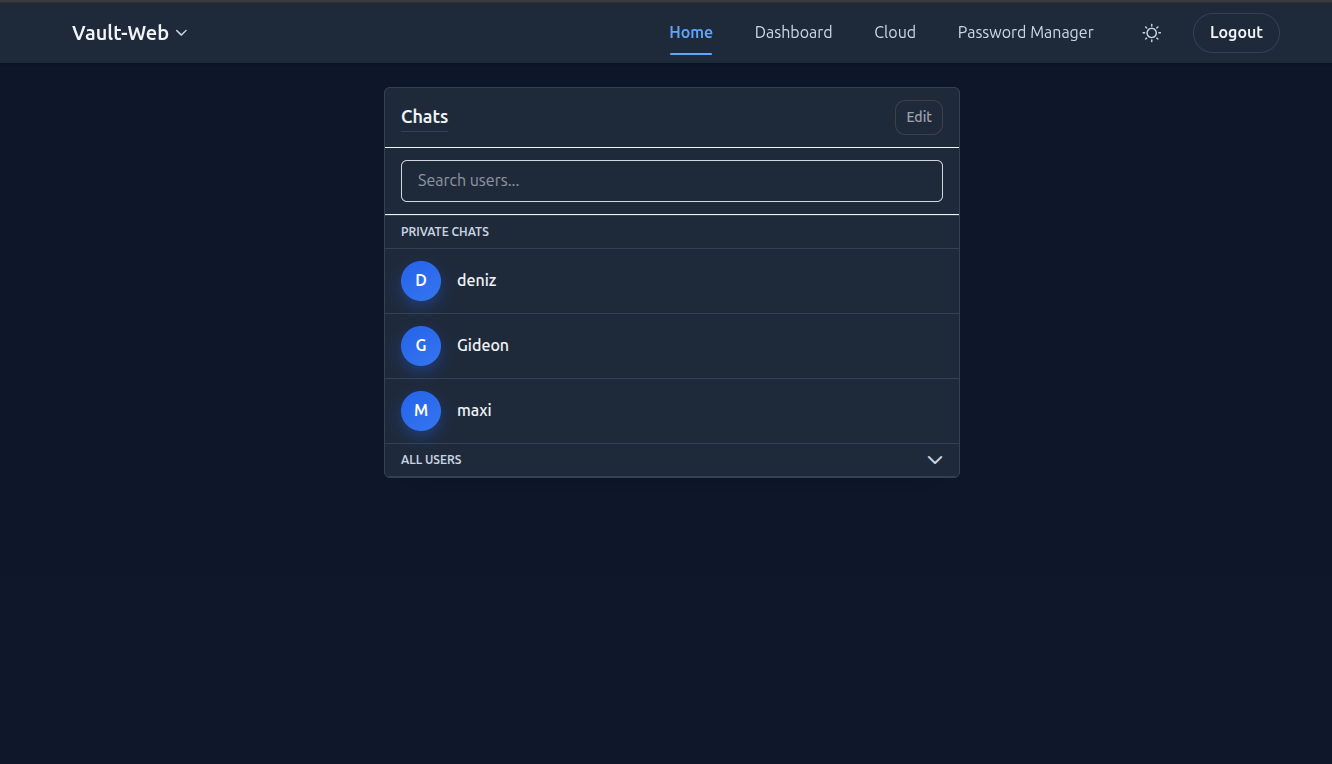
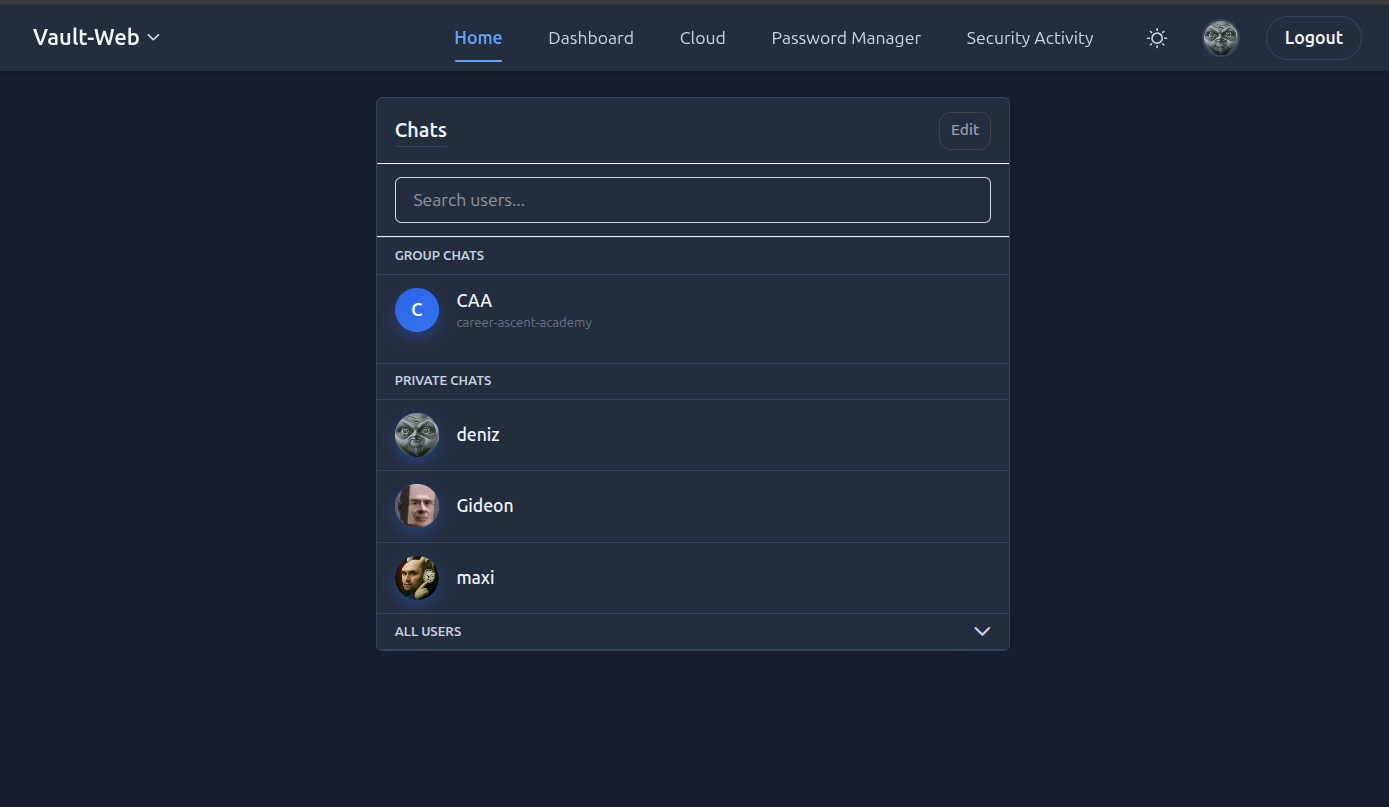
docs: refresh organization profile README

diff --git a/profile/README.md b/profile/README.md
@@ -1,84 +1,77 @@
 # Vault Web
 
-Vault Web is a modular, self-hosted portal for private services on a home server. It provides one web interface for account management, communication, files, and independently deployed applications.
+**A private entry point for chat, files, habits, passwords, and self-hosted services.**
 
-The project combines a central Angular frontend with a core Spring Boot application and service-specific backends connected through APIs. It is built for practical self-hosting, architecture experiments, and security-focused learning.
+Vault Web is a modular, self-hosted portal for private home-server services. It provides a single web interface for **authentication**, communication, file management, habit tracking, and service integration while keeping each service independently deployable.
 
-## Architecture
+The project is designed as a lighter, more focused alternative to large all-in-one platforms: small services, clear boundaries, **VPN-first deployment**, and practical operations for a personal server.
 
-Vault Web follows a service-oriented architecture with a centralized user interface:
+## What This Organization Builds
 
-- The Angular frontend is maintained in the core `vault-web` repository.
-- The core backend owns users, sessions, authentication, chat, and shared application concerns.
-- Domain services expose independent APIs and own their application logic.
-- Runtime integration happens through authenticated HTTP APIs and configurable frontend links.
-- The deployment stack is managed with Docker Compose.
-- Remote access is designed around Headscale/Tailscale, HTTPS termination, and private Split DNS.
+Vault Web combines a central portal with domain-specific services. The core application owns users, sessions, chat, and the main navigation experience. Services such as Cloud Page, Vault Habits, and Vaultwarden stay separate and integrate through APIs or **authenticated frontend links**. New services can be added without folding all logic into the portal itself.
 
-```text
-Browser or mobile client
-          |
-          v
-  Vault Web frontend
-          |
-          +--------> Vault Web core API
-          +--------> Cloud Page API
-          +--------> Additional service APIs
+```mermaid
+flowchart LR
+    client[VPN client] --> proxy[Caddy / HTTPS]
+    proxy --> frontend[Vault Web frontend]
+    frontend --> core[Core backend]
+    frontend --> cloud[Cloud Page backend]
+    frontend --> habits[Vault Habits]
+    proxy --> vaultwarden[Vaultwarden]
+    frontend --> extensions[Extensible by other services]
+
+    core --> coredb[(Core DB)]
+    cloud --> clouddb[(Cloud DB)]
+    coredb --> postgres[(PostgreSQL instance)]
+    clouddb --> postgres
+    cloud --> storage[(User storage)]
+    syncthing[Syncthing] -. syncs .-> storage
+    extensions -.-> apis[Service APIs / links]
+    headscale[Headscale / Tailscale] -. private access .-> client
 ```
-
-The long-term authentication direction is a dedicated gateway that centralizes token validation and authorization policies across services.
 
 ## Repositories
 
-| Repository | Purpose | Status |
-| --- | --- | --- |
-| [vault-web](https://github.com/Vault-Web/vault-web) | Central Angular frontend and Spring Boot core for users, sessions, chat, and service integration | Active |
-| [cloud-page](https://github.com/Vault-Web/cloud-page) | File and folder management API with per-user storage isolation | Active |
-| [vault-habits](https://github.com/Vault-Web/vault-habits) | Self-hosted habit tracking with Vault Web authentication handoff | Active |
-| [auth-api-gateway](https://github.com/Vault-Web/auth-api-gateway) | Central authentication and authorization gateway | In development |
-| [password-manager](https://github.com/Vault-Web/password-manager) | Dedicated password-management service with an encryption-focused design | Research and planning |
-| [deploy](https://github.com/Vault-Web/deploy) | Docker Compose deployment stack and service submodules | Active |
-| [server-docs](https://github.com/Vault-Web/server-docs) | Deployment, Headscale, Syncthing, backup, and operations documentation | Active |
+| Repository | Role |
+| --- | --- |
+| [`vault-web`](https://github.com/Vault-Web/vault-web) | Central portal frontend and core backend with **authentication**, sessions, chat, and navigation |
+| [`cloud-page`](https://github.com/Vault-Web/cloud-page) | File-management backend with **per-user storage isolation** |
+| [`vault-habits`](https://github.com/Vault-Web/vault-habits) | Self-hosted habit tracker integrated through Vault Web login |
+| [`vaultwarden`](https://github.com/Vault-Web/vaultwarden) | Integrated upstream/forked **Bitwarden-compatible** password vault service |
+| [`auth-api-gateway`](https://github.com/Vault-Web/auth-api-gateway) | Experimental authentication gateway, not required for the current production stack |
+| [`deploy`](https://github.com/Vault-Web/deploy) | Production Docker Compose stack, runtime configuration, and **VPN-first deployment** |
+| [`server-docs`](https://github.com/Vault-Web/server-docs) | **Headscale**, **Split DNS**, Syncthing, backup, and operations documentation |
+| [`password-manager`](https://github.com/Vault-Web/password-manager) | Archived custom password-vault service, replaced by Vaultwarden integration |
 
-## Current Capabilities
+## Focus Areas
 
-- Central login and JWT-based access
-- Private and group chat with per-device end-to-end encryption support
-- File and folder management through Cloud Page
-- Password-vault functionality in the core application while the standalone service is being designed
-- Runtime integration of external services
-- Habit tracking through Vault Habits
-- VPN-only deployment using Headscale/Tailscale and Split DNS
-- Docker Compose deployment, backup, and operational documentation
+| Area | Direction |
+| --- | --- |
+| Network design | **Least-exposed**, VPN-first access with Headscale/Tailscale and Split DNS |
+| Service boundaries | Independent backends instead of one large application server |
+| Personal cloud | Filesystem-backed storage with **per-user isolation** and Syncthing interoperability |
+| Identity | **Consistent login**, session handling, and authenticated service handoff |
+| Security | Security activity, token hardening, and a private-by-default deployment model |
+| Operations | Docker Compose deployment, **backups**, health checks, and recovery-oriented runbooks |
 
 ## Interface
 
-### Chat
-
-The core application provides the shared navigation and communication interface.
+### Communication
 
 ![Vault Web chat interface](./assets/vault-web-chat.png)
 
-### Cloud Page
-
-Cloud Page is exposed through the central frontend while its file-management backend remains a separate service.
+### Cloud Workspace
 
 ![Vault Web cloud file manager](./assets/vault-web-cloud.png)
 
 ## Deployment Model
 
-The documented deployment keeps Vault Web private by default:
+The documented production setup keeps Vault Web **private by default**. Public DNS is reserved for the **VPN control plane**, while application hostnames resolve only inside the private network through **Split DNS**. Caddy terminates **HTTPS**, Docker Compose runs the services, and operational guidance lives in [`deploy`](https://github.com/Vault-Web/deploy) and [`server-docs`](https://github.com/Vault-Web/server-docs).
 
-1. Application containers communicate on internal Docker networks.
-2. Caddy terminates HTTPS and proxies requests to the frontend.
-3. Headscale manages the private Tailscale-compatible network.
-4. Split DNS resolves the Vault Web hostname only for connected clients.
-5. Cloud Page, backups, and optional Syncthing instances operate as separate stack components.
-
-Start with the [deployment repository](https://github.com/Vault-Web/deploy) for the runnable stack and [Server Docs](https://github.com/Vault-Web/server-docs) for the complete setup and operations guides.
+This model is intentionally conservative: **expose as little as possible**, keep the portal reachable through trusted private access, and treat **backups and monitoring** as part of the product rather than an afterthought.
 
 ## Contributing
 
-Contributions are welcome across application development, service integration, deployment, documentation, and security design. Read the [contribution guidelines](https://github.com/Vault-Web/.github/blob/main/CONTRIBUTING.md) before opening a pull request.
+Contributions are welcome across application development, security design, deployment, documentation, and service integration. Please read the [contribution guidelines](https://github.com/Vault-Web/.github/blob/main/CONTRIBUTING.md) before opening a pull request.
 
-Vault Web is an experimental self-hosting project. Review the configuration and security model carefully before exposing any component beyond a trusted private network.
+Vault Web is an experimental self-hosting project. Review the configuration and security model carefully before exposing any component outside a trusted private network.
